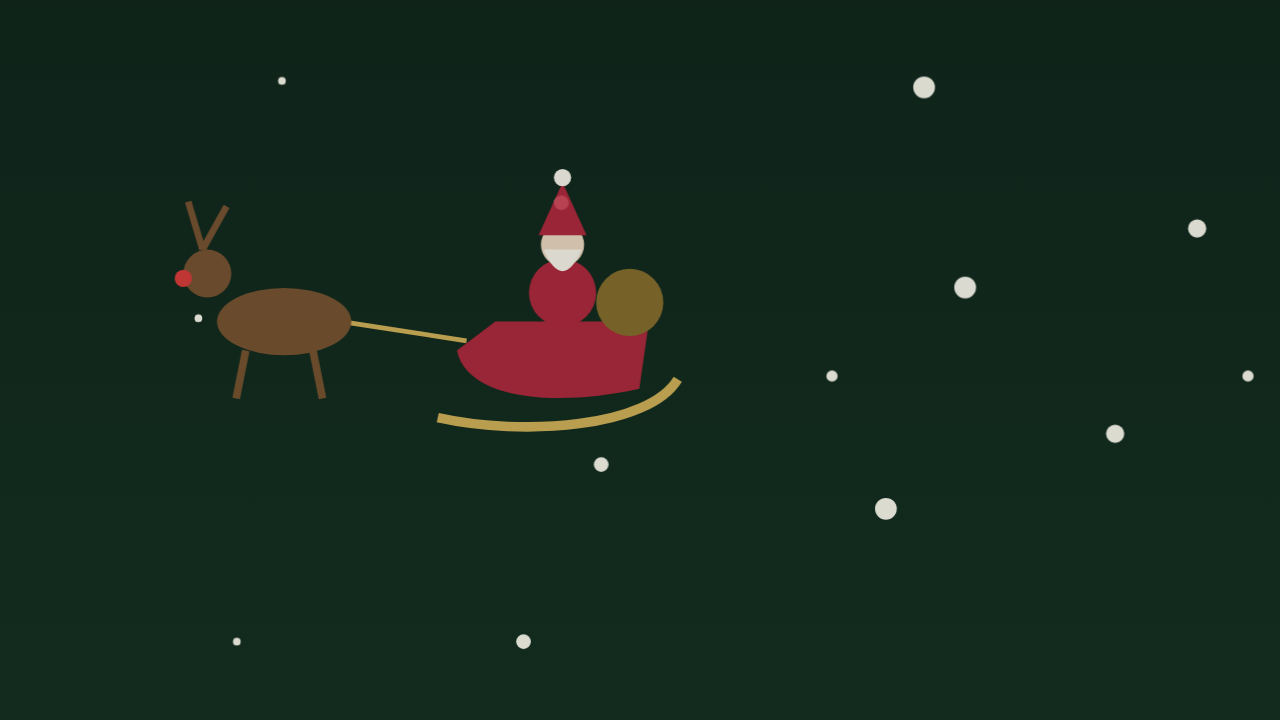
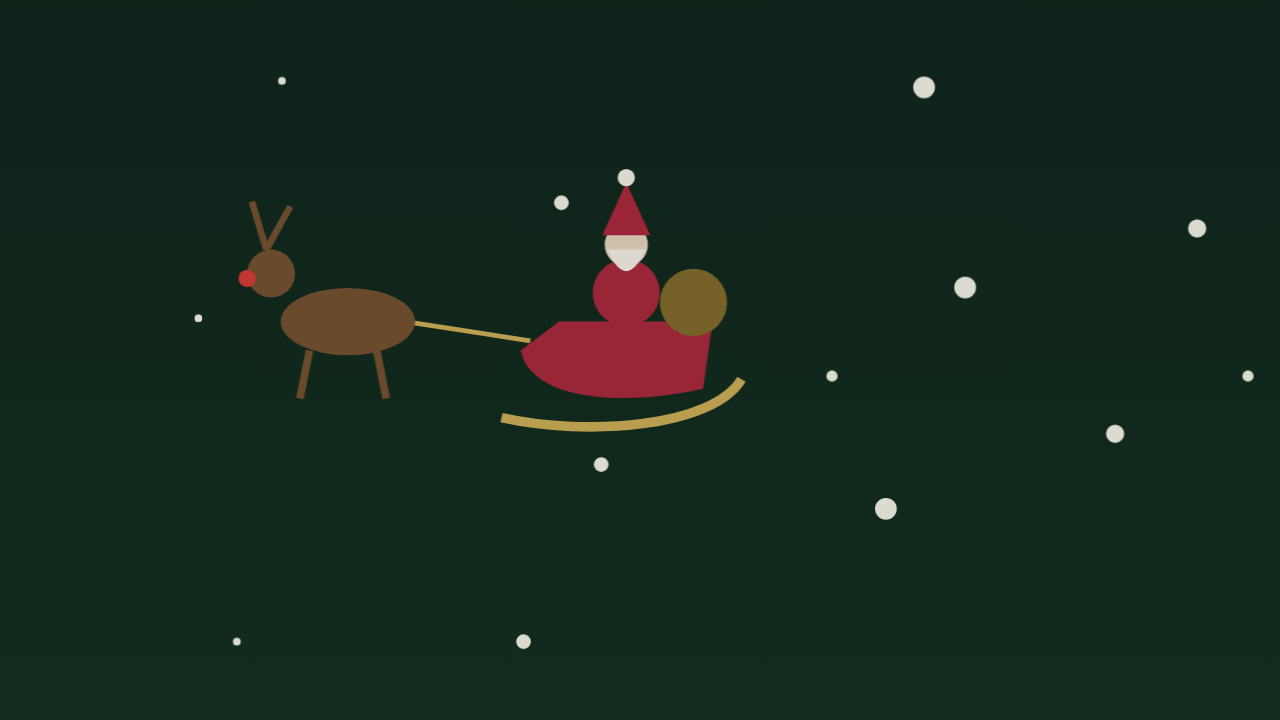
christmas-theme 0.2.5: the reindeer pulls the sleigh (fly right to left)
Claude-Session: https://claude.ai/code/session_019US2gsjfkmf3Eo2ufavub8

Changed region(s): [[0.125, 0.2139, 0.5938, 0.6111], [0.1562, 0.5194, 0.1875, 0.55]]

diff --git a/plugins/christmas-theme/hooks/register.tsx b/plugins/christmas-theme/hooks/register.tsx
@@ -45,10 +45,11 @@ const FLAKES = Array.from({ length: 48 }, (_, i) => {
   return `<circle class="f" cx="${x}" cy="-10" r="${r}" style="--d:${drift}px;--y:${rest}px;animation-duration:${duration}s;animation-delay:${delay}s"/>`
 }).join('')
 
-// Santa, his sleigh and one reindeer, drawn small around (0, 0). They rest at the spot given by the outer
-// transform, and the slow flight across the sky only moves them sideways. The sky band a wide window shows
-// is about y 290 to 510, so they fly through the middle of it. The animation starts partway across (the
-// negative delay), so they are on screen when a session opens.
+// Santa, his sleigh and one reindeer, drawn small around (0, 0). The reindeer is on the left and faces left, so
+// the flight goes from right to left and the reindeer pulls the sleigh. They rest at the spot given by the outer
+// transform, and the slow flight across the sky only moves them sideways. The sky band a wide window shows is
+// about y 290 to 510, so they fly through the middle of it. The animation starts partway across (the negative
+// delay), so they are on screen when a session opens.
 const SANTA = [
   '<path d="M-38 -8 L-12 -4" stroke="#d9b45a" stroke-width="1" fill="none"/>',
   '<ellipse cx="-50" cy="-8" rx="14" ry="7" fill="#7a5230"/>',
@@ -77,7 +78,7 @@ const SCENE = [
   '.sl{animation:fly 70s linear -34s infinite}',
   // Asked to reduce motion, the flakes rest at set heights and Santa rests where he is drawn.
   '@media (prefers-reduced-motion:reduce){.f{animation:none;transform:translate(0,var(--y))}.sl{animation:none}}',
-  '@keyframes fly{from{transform:translate(-250px,0)}to{transform:translate(215px,0)}}',
+  '@keyframes fly{from{transform:translate(215px,0)}to{transform:translate(-250px,0)}}',
   '</style>',
   '<rect width="400" height="800" fill="url(#sky)"/>',
   FLAKES,
